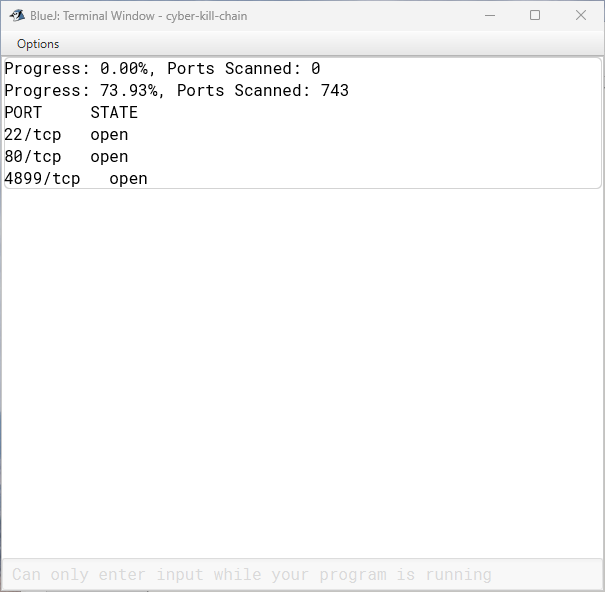
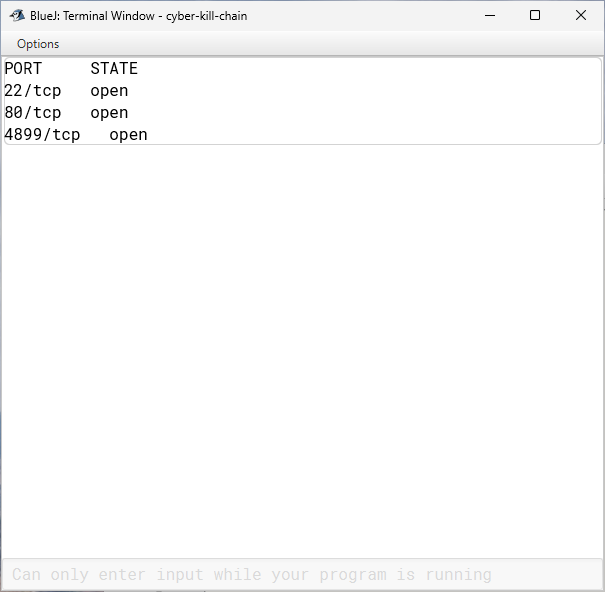
updated portscanner code

diff --git a/portscanner/PortScanner.java b/portscanner/PortScanner.java
@@ -1,13 +1,10 @@
 package portscanner;
-import java.io.IOException;//it helps us manage errors that may occur while trying to connect to ports.
-import java.net.Socket;// provides a client-side socket for communication with a server. We use it to attempt to connect to different ports.
+
+import java.io.IOException;
+import java.net.Socket;
 import java.util.ArrayList;
 import java.util.Collections;
 import java.util.List;
-import java.util.concurrent.ExecutorService;
-import java.util.concurrent.Executors;
-import java.util.concurrent.ScheduledExecutorService;
-import java.util.concurrent.TimeUnit;
 import java.util.concurrent.atomic.AtomicInteger;
 
 public class PortScanner {
@@ -15,8 +12,7 @@ public class PortScanner {
     private static final List<Integer> openPorts = Collections.synchronizedList(new ArrayList<>());
     private static final AtomicInteger scannedPortCount = new AtomicInteger(0);
 
-    public static boolean isPortOpen(String ip, int port, int timeout)  {
-        //checks whether a specific port on a given IP address is open.
+    public static boolean isPortOpen(String ip, int port, int timeout) {
         try {
             Socket socket = new Socket();
             socket.connect(new java.net.InetSocketAddress(ip, port), timeout);
@@ -47,73 +43,22 @@ public class PortScanner {
 
     public static void main(String[] args) {
         String ip = "192.168.56.101";
-        // top common 1000 ports
-        // from https://raw.githubusercontent.com/danielmiessler/SecLists/refs/heads/master/Discovery/Infrastructure/nmap-ports-top1000.txt
         String portList = "1,3-4,6-7,9,13,17,19-26,30,32-33,37,42-43,49,53,70,79-85,88-90,99-100,106,109-111,113,119,125,135,139,143-144,146,161,163,179,199,211-212,222,254-256,259,264,280,301,306,311,340,366,389,406-407,416-417,425,427,443-445,458,464-465,481,497,500,512-515,524,541,543-545,548,554-555,563,587,593,616-617,625,631,636,646,648,666-668,683,687,691,700,705,711,714,720,722,726,749,765,777,783,787,800-801,808,843,873,880,888,898,900-903,911-912,981,987,990,992-993,995,999-1002,1007,1009-1011,1021-1100,1102,1104-1108,1110-1114,1117,1119,1121-1124,1126,1130-1132,1137-1138,1141,1145,1147-1149,1151-1152,1154,1163-1166,1169,1174-1175,1183,1185-1187,1192,1198-1199,1201,1213,1216-1218,1233-1234,1236,1244,1247-1248,1259,1271-1272,1277,1287,1296,1300-1301,1309-1311,1322,1328,1334,1352,1417,1433-1434,1443,1455,1461,1494,1500-1501,1503,1521,1524,1533,1556,1580,1583,1594,1600,1641,1658,1666,1687-1688,1700,1717-1721,1723,1755,1761,1782-1783,1801,1805,1812,1839-1840,1862-1864,1875,1900,1914,1935,1947,1971-1972,1974,1984,1998-2010,2013,2020-2022,2030,2033-2035,2038,2040-2043,2045-2049,2065,2068,2099-2100,2103,2105-2107,2111,2119,2121,2126,2135,2144,2160-2161,2170,2179,2190-2191,2196,2200,2222,2251,2260,2288,2301,2323,2366,2381-2383,2393-2394,2399,2401,2492,2500,2522,2525,2557,2601-2602,2604-2605,2607-2608,2638,2701-2702,2710,2717-2718,2725,2800,2809,2811,2869,2875,2909-2910,2920,2967-2968,2998,3000-3001,3003,3005-3007,3011,3013,3017,3030-3031,3052,3071,3077,3128,3168,3211,3221,3260-3261,3268-3269,3283,3300-3301,3306,3322-3325,3333,3351,3367,3369-3372,3389-3390,3404,3476,3493,3517,3527,3546,3551,3580,3659,3689-3690,3703,3737,3766,3784,3800-3801,3809,3814,3826-3828,3851,3869,3871,3878,3880,3889,3905,3914,3918,3920,3945,3971,3986,3995,3998,4000-4006,4045,4111,4125-4126,4129,4224,4242,4279,4321,4343,4443-4446,4449,4550,4567,4662,4848,4899-4900,4998,5000-5004,5009,5030,5033,5050-5051,5054,5060-5061,5080,5087,5100-5102,5120,5190,5200,5214,5221-5222,5225-5226,5269,5280,5298,5357,5405,5414,5431-5432,5440,5500,5510,5544,5550,5555,5560,5566,5631,5633,5666,5678-5679,5718,5730,5800-5802,5810-5811,5815,5822,5825,5850,5859,5862,5877,5900-5904,5906-5907,5910-5911,5915,5922,5925,5950,5952,5959-5963,5987-5989,5998-6007,6009,6025,6059,6100-6101,6106,6112,6123,6129,6156,6346,6389,6502,6510,6543,6547,6565-6567,6580,6646,6666-6669,6689,6692,6699,6779,6788-6789,6792,6839,6881,6901,6969,7000-7002,7004,7007,7019,7025,7070,7100,7103,7106,7200-7201,7402,7435,7443,7496,7512,7625,7627,7676,7741,7777-7778,7800,7911,7920-7921,7937-7938,7999-8002,8007-8011,8021-8022,8031,8042,8045,8080-8090,8093,8099-8100,8180-8181,8192-8194,8200,8222,8254,8290-8292,8300,8333,8383,8400,8402,8443,8500,8600,8649,8651-8652,8654,8701,8800,8873,8888,8899,8994,9000-9003,9009-9011,9040,9050,9071,9080-9081,9090-9091,9099-9103,9110-9111,9200,9207,9220,9290,9415,9418,9485,9500,9502-9503,9535,9575,9593-9595,9618,9666,9876-9878,9898,9900,9917,9929,9943-9944,9968,9998-10004,10009-10010,10012,10024-10025,10082,10180,10215,10243,10566,10616-10617,10621,10626,10628-10629,10778,11110-11111,11967,12000,12174,12265,12345,13456,13722,13782-13783,14000,14238,14441-14442,15000,15002-15004,15660,15742,16000-16001,16012,16016,16018,16080,16113,16992-16993,17877,17988,18040,18101,18988,19101,19283,19315,19350,19780,19801,19842,20000,20005,20031,20221-20222,20828,21571,22939,23502,24444,24800,25734-25735,26214,27000,27352-27353,27355-27356,27715,28201,30000,30718,30951,31038,31337,32768-32785,33354,33899,34571-34573,35500,38292,40193,40911,41511,42510,44176,44442-44443,44501,45100,48080,49152-49161,49163,49165,49167,49175-49176,49400,49999-50003,50006,50300,50389,50500,50636,50800,51103,51493,52673,52822,52848,52869,54045,54328,55055-55056,55555,55600,56737-56738,57294,57797,58080,60020,60443,61532,61900,62078,63331,64623,64680,65000,65129,65389,280,4567,7001,8008,9080";
         int timeout = 200;
-        int numberOfJobs = 10;
 
         List<Integer> ports = parsePortList(portList);
-        int totalPorts = ports.size();
 
-        ExecutorService executor = Executors.newFixedThreadPool(numberOfJobs);
-        ScheduledExecutorService scheduler = Executors.newScheduledThreadPool(1);
-
-        int range = (totalPorts + numberOfJobs - 1) / numberOfJobs; // Calculate range size
-        for (int i = 0; i < numberOfJobs; i++) {
-            int jobStartIndex = i * range;
-            int jobEndIndex = Math.min(jobStartIndex + range, totalPorts);
-            if (jobStartIndex < jobEndIndex) {
-                List<Integer> jobPorts = ports.subList(jobStartIndex, jobEndIndex);
-                executor.execute(new PortScanTask(ip, jobPorts, timeout, openPorts, scannedPortCount));
+        for (int port : ports) {
+            if (isPortOpen(ip, port, timeout)) {
+                openPorts.add(port);
             }
+            scannedPortCount.incrementAndGet();
         }
 
-        scheduler.scheduleAtFixedRate(() -> {
-            int scannedPorts = scannedPortCount.get();
-            double completion = (scannedPorts / (double) totalPorts) * 100;
-            System.out.printf("Progress: %.2f%%, Ports Scanned: %d\n", completion, scannedPorts);
-        }, 0, 15, TimeUnit.SECONDS);
-
-        executor.shutdown();
-        try {
-            executor.awaitTermination(Long.MAX_VALUE, TimeUnit.NANOSECONDS);
-        } catch (InterruptedException e) {
-            e.printStackTrace();
-        }
-
-        scheduler.shutdown();
         Collections.sort(openPorts);
         System.out.println("PORT     STATE");
         for (int port : openPorts) {
             System.out.printf("%d/tcp   open\n", port);
-        }
-    }
-}
-
-
-class PortScanTask implements Runnable {
-    private String ip;
-    private List<Integer> ports;
-    private int timeout;
-    private List<Integer> openPorts;
-    private AtomicInteger scannedPortCount;
-
-    public PortScanTask(String ip, List<Integer> ports, int timeout, List<Integer> openPorts, AtomicInteger scannedPortCount) {
-        this.ip = ip;
-        this.ports = ports;
-        this.timeout = timeout;
-        this.openPorts = openPorts;
-        this.scannedPortCount = scannedPortCount;
-    }
-
-    @Override
-    public void run() {
-        for (int port : ports) {
-            if (PortScanner.isPortOpen(ip, port, timeout)) {
-                openPorts.add(port);
-            }
-            scannedPortCount.incrementAndGet();
         }
     }
 }
